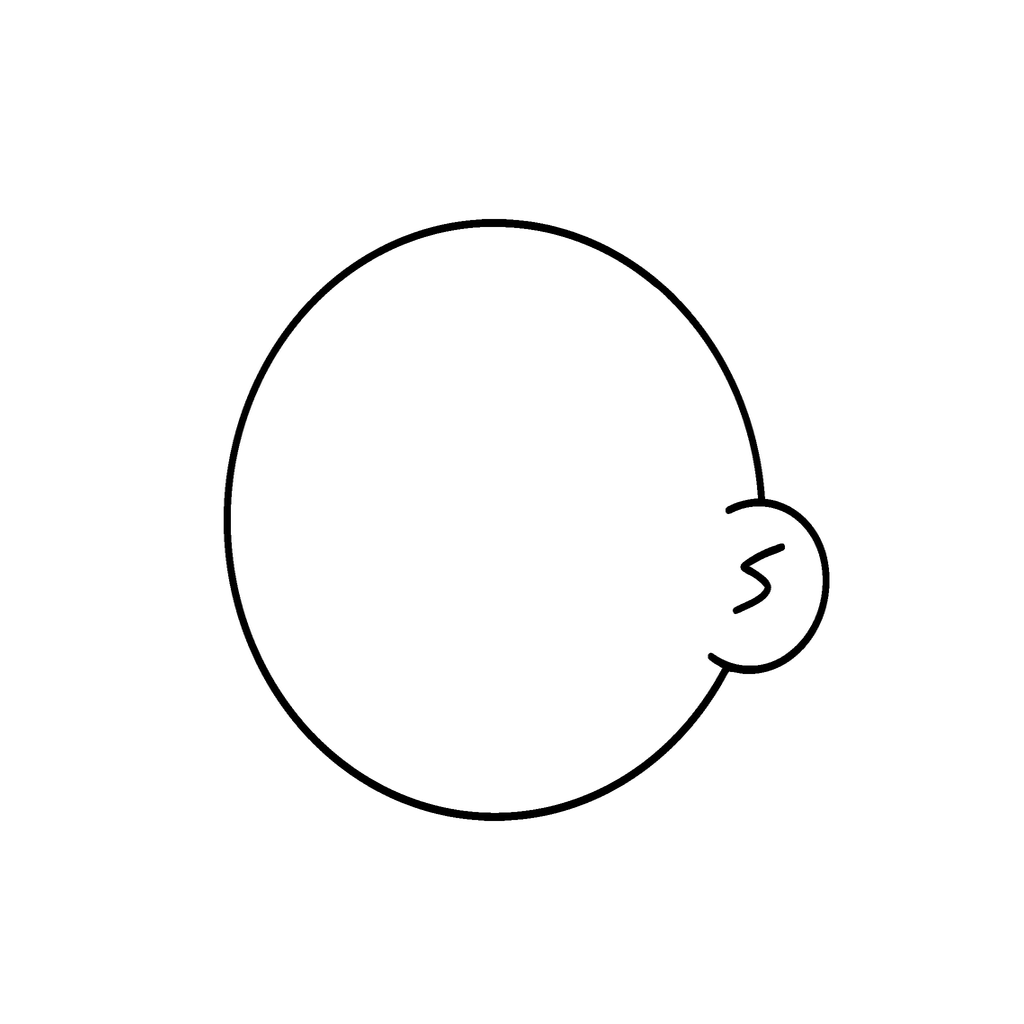
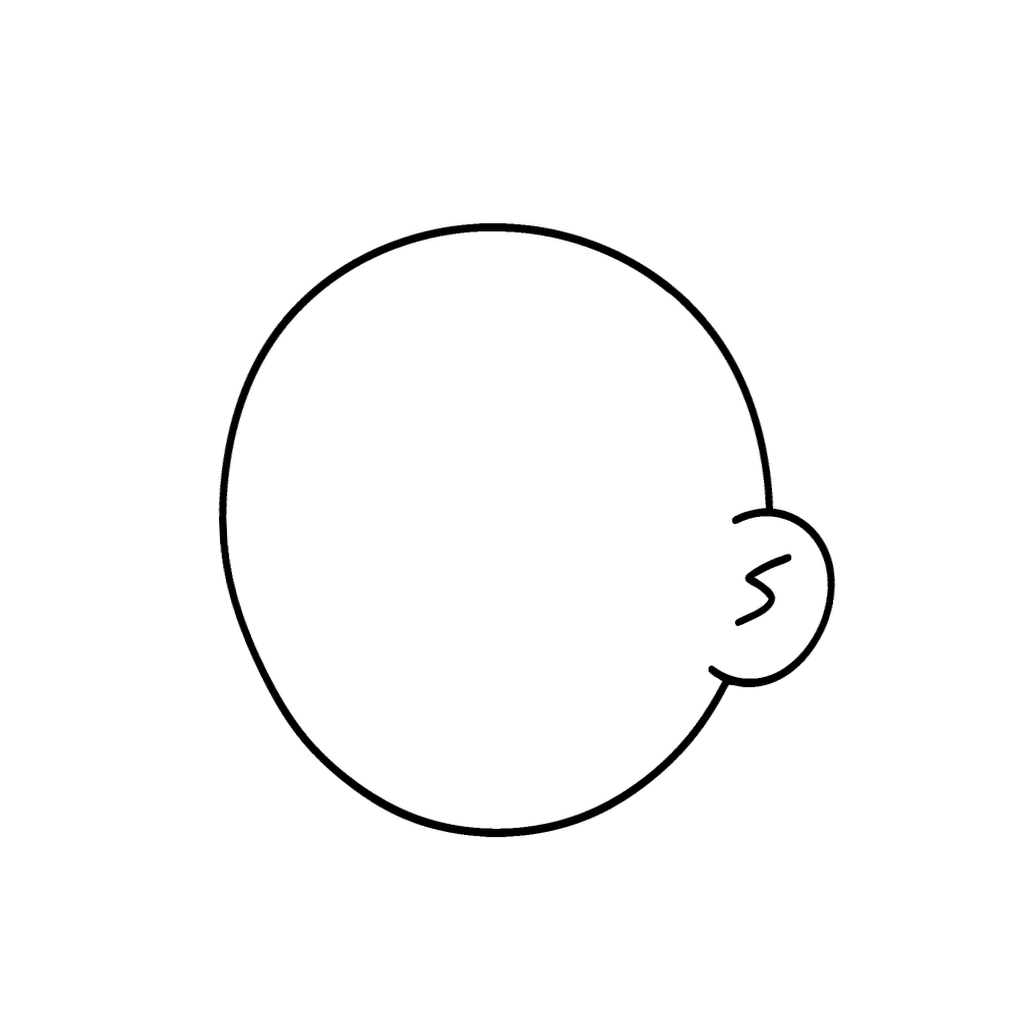
feat(assets): 脸型从 2 种扩到 9 种
- 新增 scripts/face_shapes.py：以 Adventurer 底脸为基准做平滑形变，派生圆脸/瓜子脸/方脸/长脸/宽脸/婴儿肥/心形脸/窄脸
- 形变只作用于脸的轮廓，画风与锚点不变，五官与发型仍对得准
- 同步重建 tint 蒙版与缩略图；素材总数 67 → 74
- 更新预算表、测试数量断言与素材重建顺序说明
- 重建快照基线

diff --git a/scripts/face_shapes.py b/scripts/face_shapes.py
@@ -1,0 +1,128 @@
+"""由 Adventurer 底脸派生多种脸型。
+
+做法：保持画风与锚点不变，只对「脸的轮廓」做平滑的横向/纵向形变：
+
+* 纵向：整体缩放 ``sy``，以脸的中心为基准；
+* 横向：每行的缩放由「颧骨」和「下颌」两处平滑隆起叠加，形成圆脸、瓜子脸、方脸等差异。
+
+输出与导入器一致：白底 PNG + ``_tint.png`` 蒙版，1024×1024 RGBA。
+用法：``python scripts/face_shapes.py``（需先跑过 import_adventurer.py）
+"""
+
+from __future__ import annotations
+
+import sys
+from pathlib import Path
+
+import numpy as np
+from PIL import Image
+
+ROOT = Path(__file__).resolve().parents[1]
+ASSETS = ROOT / "assets"
+SKIN_DIR = ASSETS / "01_skin"
+CANVAS = 1024
+
+# name -> (纵向缩放, 颧骨横向增减, 下颌横向增减, 下巴额外收窄)
+SHAPES: dict[str, tuple[float, float, float, float]] = {
+    "skin_round": (0.94, 0.09, 0.06, 0.03),
+    "skin_oval": (1.05, 0.00, -0.13, -0.12),
+    "skin_square": (0.99, 0.03, 0.15, 0.11),
+    "skin_long": (1.15, -0.03, -0.01, 0.00),
+    "skin_wide": (0.95, 0.13, 0.09, 0.02),
+    "skin_baby": (0.97, 0.14, -0.02, -0.07),
+    "skin_heart": (1.03, 0.08, -0.17, -0.16),
+    "skin_slim": (1.02, -0.07, -0.09, -0.04),
+}
+
+
+def _bump(t: np.ndarray, center: float, width: float) -> np.ndarray:
+    """在 [0,1] 上做一个平滑的钟形权重。"""
+    return np.exp(-((t - center) ** 2) / (2 * width**2))
+
+
+def _row_scale(t: np.ndarray, cheek: float, jaw: float, chin: float) -> np.ndarray:
+    """按行给出横向缩放系数：额头 1.0，颧骨与下颌各加一个隆起。"""
+    scale = np.ones_like(t)
+    scale += cheek * _bump(t, 0.45, 0.22)
+    scale += jaw * _bump(t, 0.82, 0.16)
+    scale += chin * _bump(t, 0.97, 0.06)
+    return scale
+
+
+def _premultiply(arr: np.ndarray) -> np.ndarray:
+    alpha = arr[..., 3:4] / 255.0
+    return np.concatenate([arr[..., :3] * alpha, arr[..., 3:4]], axis=-1)
+
+
+def _unpremultiply(arr: np.ndarray) -> np.ndarray:
+    alpha = np.clip(arr[..., 3:4], 0, 255) / 255.0
+    rgb = np.where(alpha > 0, arr[..., :3] / np.maximum(alpha, 1e-6), 0)
+    return np.concatenate([np.clip(rgb, 0, 255), np.clip(arr[..., 3:4], 0, 255)], axis=-1)
+
+
+def warp(
+    image: Image.Image,
+    sy: float,
+    cheek: float,
+    jaw: float,
+    chin: float,
+) -> Image.Image:
+    """按行做横向缩放、整体做纵向缩放，返回新的 RGBA 图。"""
+    source = np.asarray(image.convert("RGBA").resize((CANVAS, CANVAS), Image.NEAREST)).astype(np.float32)
+    alpha_bbox = Image.fromarray(source[..., 3].astype(np.uint8)).getbbox()
+    if not alpha_bbox:
+        return image
+
+    top, bottom = alpha_bbox[1], alpha_bbox[3]
+    center_y = (top + bottom) / 2
+    center_x = (alpha_bbox[0] + alpha_bbox[2]) / 2
+
+    # 纵向：以脸中心为基准缩放，透明区域裁掉也不影响对齐
+    target = Image.fromarray(np.clip(source, 0, 255).astype(np.uint8))
+    new_height = max(1, int(round(CANVAS * sy)))
+    scaled = target.resize((CANVAS, new_height), Image.LANCZOS)
+    canvas = Image.new("RGBA", (CANVAS, CANVAS), (0, 0, 0, 0))
+    offset = int(round(center_y - new_height * (center_y / CANVAS)))
+    canvas.alpha_composite(scaled, (0, max(0, min(CANVAS - new_height, offset))))
+
+    premultiplied = _premultiply(np.asarray(canvas).astype(np.float32))
+    t = np.clip((np.arange(CANVAS) - top) / max(1, bottom - top), 0, 1)
+    scales = _row_scale(t, cheek, jaw, chin)
+
+    rows = np.arange(CANVAS, dtype=np.float32)
+    out = np.zeros_like(premultiplied)
+    for y in range(CANVAS):
+        s = float(scales[y])
+        if abs(s - 1.0) < 1e-4:
+            out[y] = premultiplied[y]
+            continue
+        src_x = center_x + (rows - center_x) / s
+        for channel in range(4):
+            out[y, :, channel] = np.interp(
+                src_x, rows, premultiplied[y, :, channel], left=0.0, right=0.0
+            )
+
+    return Image.fromarray(np.clip(_unpremultiply(out), 0, 255).astype(np.uint8))
+
+
+def main() -> int:
+    base_path = SKIN_DIR / "skin_base.png"
+    mask_path = SKIN_DIR / "skin_base_tint.png"
+    if not base_path.exists() or not mask_path.exists():
+        print("缺少 skin_base.png / skin_base_tint.png，请先运行 import_adventurer.py")
+        return 1
+
+    base = Image.open(base_path).convert("RGBA")
+    mask = Image.open(mask_path).convert("RGBA")
+
+    for name, (sy, cheek, jaw, chin) in SHAPES.items():
+        warped = warp(base, sy, cheek, jaw, chin)
+        warped.save(SKIN_DIR / f"{name}.png", optimize=True)
+        warped_mask = warp(mask, sy, cheek, jaw, chin)
+        warped_mask.save(SKIN_DIR / f"{name}_tint.png", optimize=True)
+        print(f"{name:12s} sy={sy:.2f} cheek={cheek:+.2f} jaw={jaw:+.2f} chin={chin:+.2f}")
+    return 0
+
+
+if __name__ == "__main__":
+    sys.exit(main())

diff --git a/tests/test_assets.py b/tests/test_assets.py
@@ -76,7 +76,7 @@ def test_slot_folders_are_numbered() -> None:
 def test_budget_matches_plan() -> None:
     """本轮交付的素材预算必须与 PLAN §6 一致：10 个槽位共 54 张。"""
     budget = {
-        SlotId.SKIN: 2,
+        SlotId.SKIN: 9,
         SlotId.HAIR: 15,
         SlotId.EYES: 24,
         SlotId.BROWS: 4,
@@ -87,4 +87,4 @@ def test_budget_matches_plan() -> None:
 
     for slot_id, expected in budget.items():
         assert len(catalog[slot_id]) == expected, f"{slot_id} 应有 {expected} 张，实际 {len(catalog[slot_id])} 张"
-    assert sum(len(assets) for assets in catalog.values()) == 67
+    assert sum(len(assets) for assets in catalog.values()) == 74

diff --git a/tests/test_docs.py b/tests/test_docs.py
@@ -266,8 +266,8 @@ class TestPlanDocument(MarkdownDocChecks, unittest.TestCase):
                 declared_total = int(cells[1])
 
         self.assertEqual(len(per_slot), 6, "预算表应覆盖 6 个面部槽位")
-        self.assertEqual(sum(per_slot.values()), 67, "预算表各槽位之和应为 48")
-        self.assertEqual(declared_total, 67, "合计行应写 48，与逐项之和一致")
+        self.assertEqual(sum(per_slot.values()), 74, "预算表各槽位之和应与实际素材数一致")
+        self.assertEqual(declared_total, 74, "合计行应与逐项之和一致")
 
 
 class TestCollaborationDocument(MarkdownDocChecks, unittest.TestCase):

diff --git a/docs/PLAN.md b/docs/PLAN.md
@@ -113,13 +113,24 @@ CREATE INDEX idx_works_created ON works(created_at DESC);
 
 | 槽位 | 数量 | 内容 |
 | --- | --- | --- |
-| skin | 2 | 标准脸、窄脸（可换 6 种肤色） |
+| skin | 9 | 标准、圆脸、瓜子脸、方脸、长脸、宽脸、婴儿肥、心形脸、窄脸（可换 6 种肤色） |
 | hair | 15 | 短发、波波头、长发、丸子头、马尾、卷发、爆炸头、秃头、飞机头 |
 | eyes | 24 | 20 款库内眼睛 + 4 款自绘高光眼 |
 | brows | 4 | 平眉、弯眉、挑眉、粗眉 |
 | mouth | 17 | 库内嘴型全量导出，覆盖微笑/露齿/撇嘴/吐舌等 |
 | glasses | 5 | 圆框、方框、墨镜、半框、护目镜 |
-| 合计 | 67 | 本期只做面部 |
+| 合计 | 74 | 本期只做面部 |
+
+素材重建顺序（导入脚本会清空目录，务必按序执行）：
+
+```powershell
+python scripts/import_adventurer.py   # 基础素材
+python scripts/face_shapes.py         # 由底脸派生 8 种脸型
+python scripts/custom_hair.py         # 自绘发型
+python scripts/custom_eyes.py         # 自绘高光眼
+python -m diyface build-thumbs        # 缩略图
+python -m diyface verify              # 规格校验
+```
 
 素材规格：1024×1024、RGBA、透明背景，命名 `<槽位>_<形状>_<两位序号>.png`，单张 ≤ 80KB。
 对齐基线：头顶 y=170、眼睛 y=460、脸中心 y=500、嘴 y=620、肩线 y=880。
